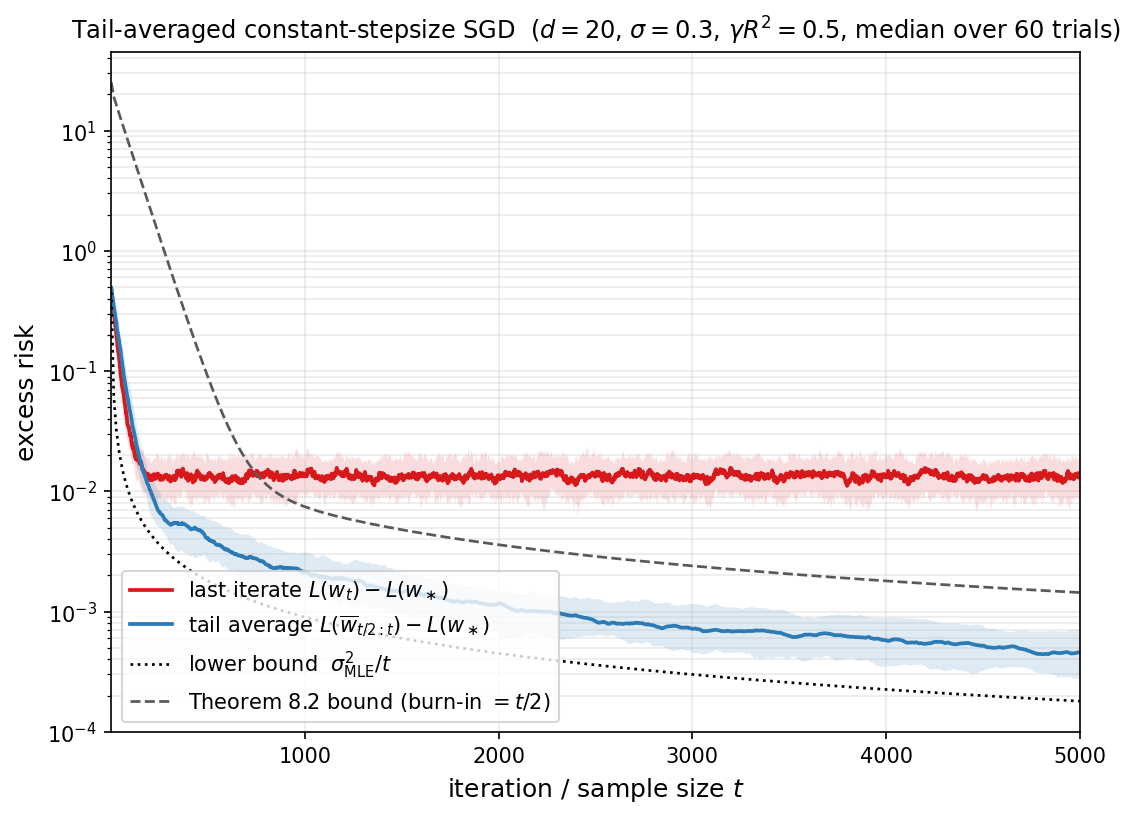
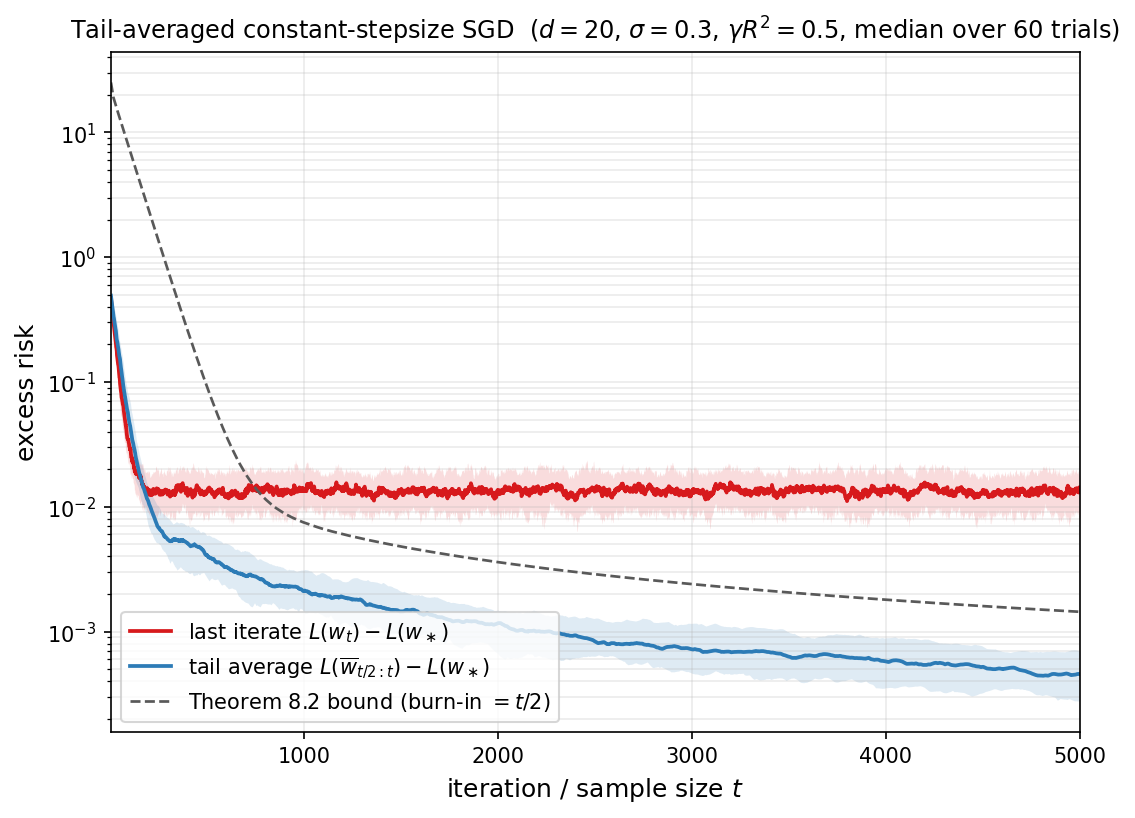
Drop sigma_MLE^2/t lower bound from tail-averaged SGD figure
Removes the dotted Cramer-Rao reference curve and its mention from the
numerical-illustration prose, leaving the empirical last-iterate and
tail-averaged curves with the Theorem 8.2 upper bound as the only
overlaid reference.

diff --git a/scripts/plot_sgd_tail_averaging.py b/scripts/plot_sgd_tail_averaging.py
@@ -163,17 +163,12 @@ def main():
         label=r"tail average $L(\overline{w}_{t/2:t})-L(w_\ast)$",
     )
 
-    # Reference lines over a smooth grid.
+    # Reference line over a smooth grid.
     t_ref = np.linspace(lo, T_max, 400)
-    ref_CR = sigma_MLE_sq / t_ref
     ref_thm = theorem_bound(
         t_ref, gamma, mu, R2, sigma_MLE_sq, rho_misspec, w0_diff_sq,
     )
 
-    ax.semilogy(
-        t_ref, ref_CR, ":", color="black", linewidth=1.3,
-        label=r"lower bound  $\sigma_{\mathrm{MLE}}^2/t$",
-    )
     ax.semilogy(
         t_ref, ref_thm, "--", color="0.35", linewidth=1.3,
         label=r"Theorem 8.2 bound (burn-in $=t/2$)",

diff --git a/week1.md b/week1.md
@@ -1701,7 +1701,7 @@ The bound $(32)$ displays the classical bias--variance tradeoff of stochastic le
 
 *Remark.* In the well-specified additive-noise model $y = \langle w_\ast, x\rangle + \eta$, where $\eta$ is independent of $x$ with $\mathbb{E}[\eta]=0$ and $\mathbb{E}[\eta^2]=\sigma^2$, a direct computation gives $\Sigma = \sigma^2 H$, and hence $\sigma_{\mathrm{MLE}}^2 = \tfrac{1}{2}d\sigma^2$ and $\rho_{\mathrm{misspec}} = 1$. After a burn-in that makes the bias negligible, Theorem 8.2 reduces to $\mathbb{E}[L(\overline w_{t:T})] - L(w_\ast) \lesssim d\sigma^2/(T-t)$.
 
-**Numerical illustration.** The figure below separates the two phases predicted by $(32)$ on the well-specified isotropic Gaussian model $x \sim \mathcal{N}(0, I_d)$, $y = \langle w_\ast, x\rangle + \eta$ with $\eta \sim \mathcal{N}(0,\sigma^2)$, taking $d=20$, $\sigma=0.3$, $w_0 = 0$, and stepsize $\gamma = \tfrac{1}{2}/(d+2)$ (so $\gamma R^2 = \tfrac12$). We plot the median over $60$ trials of the last-iterate risk $L(w_t) - L(w_\ast)$ and the tail-averaged risk $L(\overline w_{t/2:t}) - L(w_\ast)$ (shaded bands show the $10$--$90\%$ interquantile range), together with the lower-bound rate $\sigma_{\mathrm{MLE}}^2/t = d\sigma^2/(2t)$ and the bound $(32)$ specialized to burn-in $s=t/2$. The last iterate decays exponentially until it hits a noise floor on the order of $\gamma d\sigma^2$ and then stops improving, whereas the tail average keeps decaying at the $1/t$ rate. The theoretical bound $(32)$ upper-bounds the tail-averaged curve across the entire horizon.
+**Numerical illustration.** The figure below separates the two phases predicted by $(32)$ on the well-specified isotropic Gaussian model $x \sim \mathcal{N}(0, I_d)$, $y = \langle w_\ast, x\rangle + \eta$ with $\eta \sim \mathcal{N}(0,\sigma^2)$, taking $d=20$, $\sigma=0.3$, $w_0 = 0$, and stepsize $\gamma = \tfrac{1}{2}/(d+2)$ (so $\gamma R^2 = \tfrac12$). We plot the median over $60$ trials of the last-iterate risk $L(w_t) - L(w_\ast)$ and the tail-averaged risk $L(\overline w_{t/2:t}) - L(w_\ast)$ (shaded bands show the $10$--$90\%$ interquantile range), together with the bound $(32)$ specialized to burn-in $s=t/2$. The last iterate decays exponentially until it hits a noise floor on the order of $\gamma d\sigma^2$ and then stops improving, whereas the tail average keeps decaying at the $1/t$ rate. The theoretical bound $(32)$ upper-bounds the tail-averaged curve across the entire horizon.
 
 ![Tail-averaged constant-stepsize SGD: bias--variance decomposition](figures/sgd_tail_averaging.png)
 
